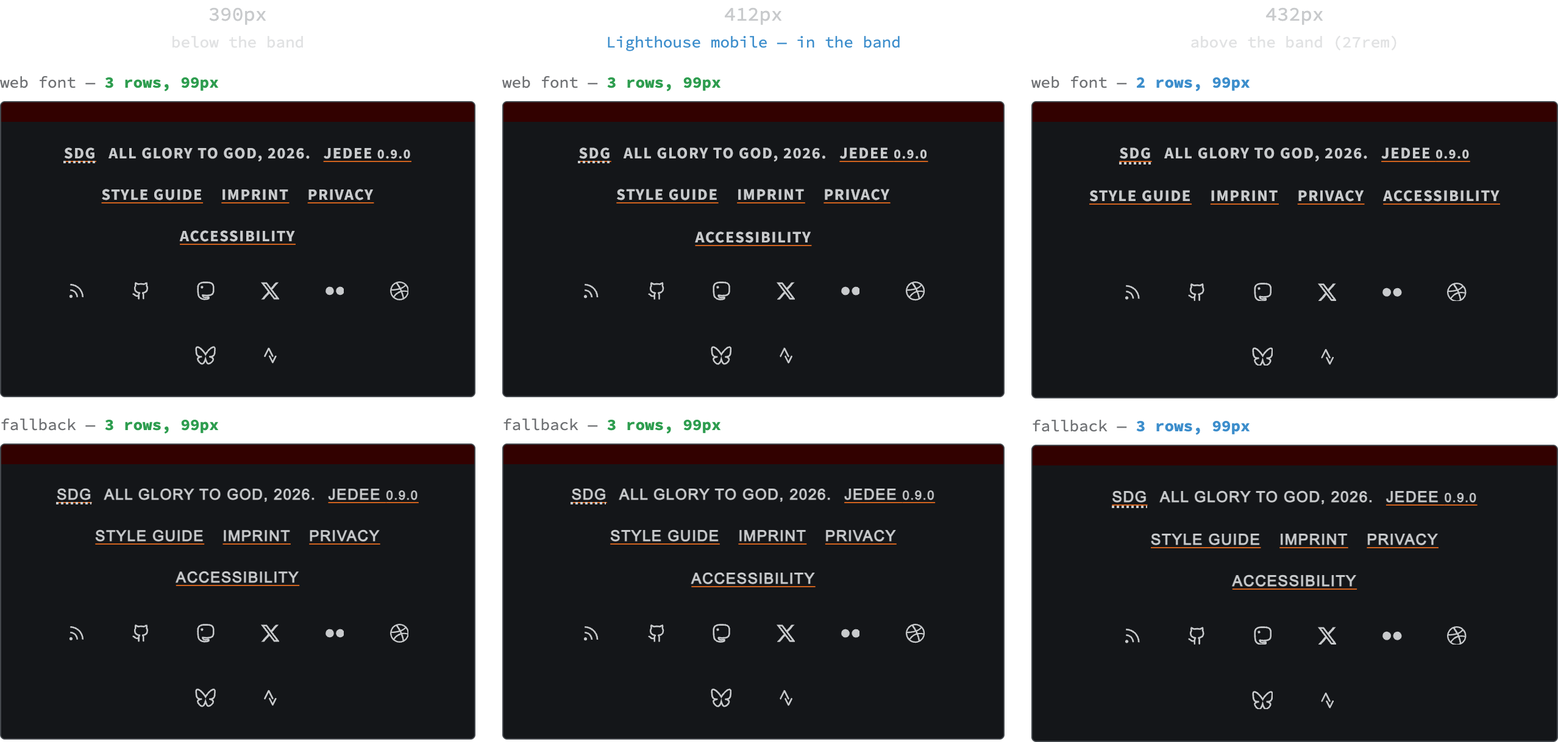
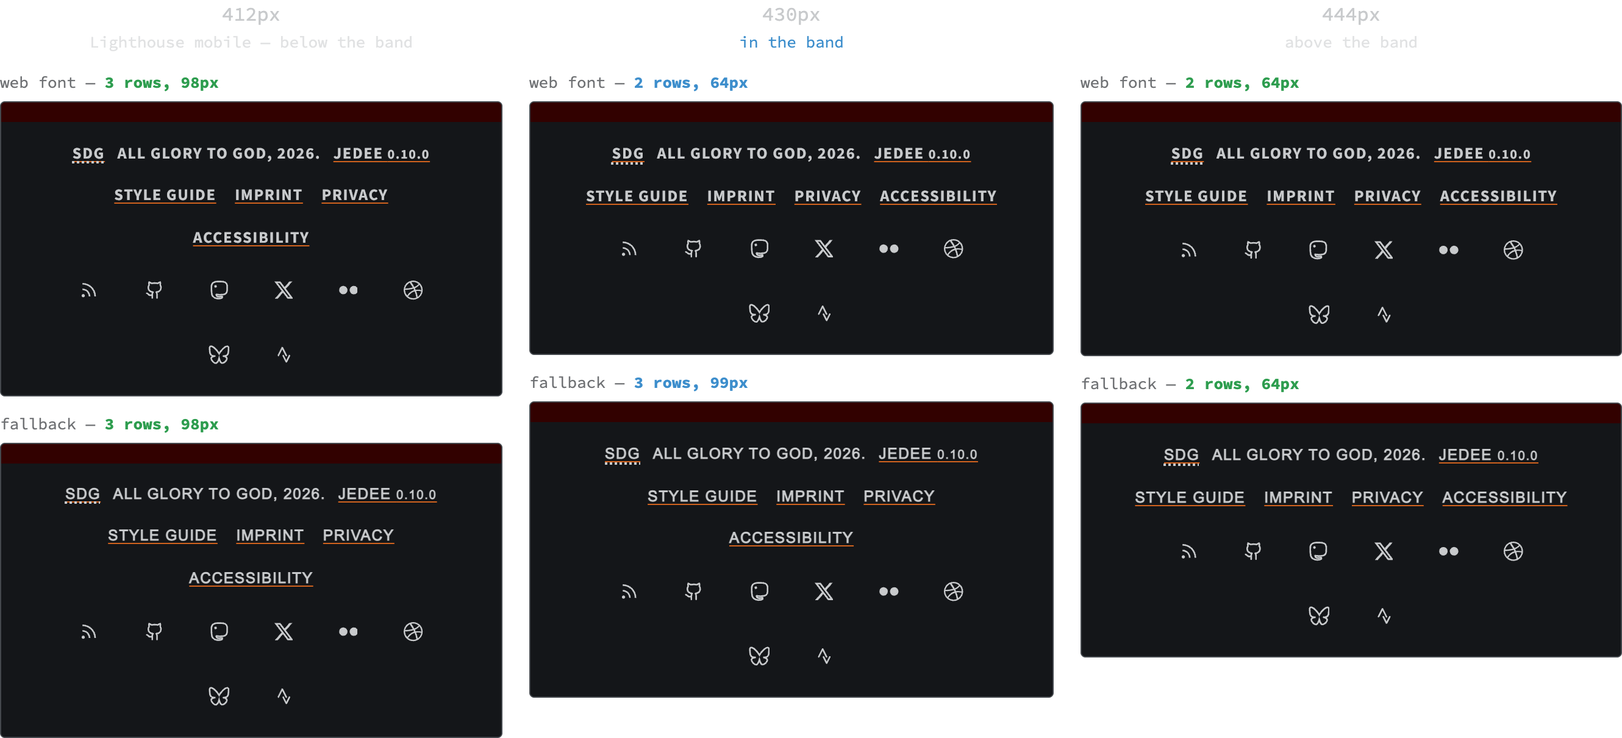
Footer: drop the width media query that reserved the link rows; the font band had moved off 412 px. Layout shift wiki re-measured and re-shot

diff --git a/src/wiki/_sources/site-footer.js b/src/wiki/_sources/site-footer.js
@@ -1,4 +1,4 @@
 // The site's REAL footer, lifted verbatim from a rendered landing page — the .wrapper gutter and the platform nav beside the link cluster are both load-bearing for where the links wrap.
 // Re-lift it with: curl -s http://localhost:8080/ and take the <footer class="site-footer …"> element.
 
-window.SITE_FOOTER = "<footer class=\"site-footer | mt-l-xl p-s-m\">\n  <div class=\"wrapper\">\n    <div class=\"cluster gutter-xs\">\n      <nav aria-label=\"Complementary\" class=\"footer-links | cluster text-step-min-2\">\n        <a href=\"https://github.com/pjedlund/soli-deo-gloria-dedication\" rel=\"license noopener\"><abbr title=\"Soli Deo Gloria\">SDG</abbr></a> All glory to God, 2026.\n        <a href=\"https://github.com/pjedlund/jedee\" rel=\"noopener\">JEDEE <small>0.9.0</small>\n        </a>\n\n        \n          <a href=\"/styleguide/\">Style Guide</a>\n        \n          <a href=\"/imprint/\">Imprint</a>\n        \n          <a href=\"/privacy/\">Privacy</a>\n        \n          <a href=\"/accessibility/\">Accessibility</a>\n        \n      </nav>\n\n      <nav aria-label=\"Platforms\" class=\"cluster\">\n        <!-- gets the first item from the feed loop set in meta -->\n        <a href=\"/feed.xml\" rel=\"alternate\" type=\"application/atom+xml\" data-icon data-tooltip=\"Atom Feed\" data-tooltip-position=\"top\" class=\"button\">\n          <span class=\"visually-hidden\">Atom Feed</span>\n          <svg xmlns=\"http://www.w3.org/2000/svg\" width=\"1em\" height=\"1em\" fill=\"none\" stroke=\"currentColor\" stroke-width=\"2\" viewBox=\"0 0 24 24\" aria-hidden=\"true\"><title>RSS</title><path d=\"M4 11a9 9 0 0 1 9 9M4 4a16 16 0 0 1 16 16\"></path><circle cx=\"5\" cy=\"19\" r=\"1\"></circle></svg>\n        </a>\n\n        \n          \n            \n            \n            <!-- regular platforms -->\n            <a data-icon href=\"https://github.com/pjedlund\" rel=\"me\" data-tooltip=\"GitHub\" data-tooltip-position=\"top\" class=\"no-indicator button\">\n              <span class=\"visually-hidden\">GitHub</span>\n              <svg xmlns=\"http://www.w3.org/2000/svg\" width=\"1em\" height=\"1em\" fill=\"none\" stroke=\"currentColor\" stroke-linecap=\"round\" stroke-linejoin=\"round\" stroke-width=\"2\" viewBox=\"0 0 24 24\" aria-hidden=\"true\"><path d=\"M15 22v-4a4.8 4.8 0 0 0-1-3.5c3 0 6-2 6-5.5.08-1.25-.27-2.48-1-3.5.28-1.15.28-2.35 0-3.5 0 0-1 0-3 1.5-2.64-.5-5.36-.5-8 0C6 2 5 2 5 2c-.3 1.15-.3 2.35 0 3.5A5.4 5.4 0 0 0 4 9c0 3.5 3 5.5 6 5.5-.39.49-.68 1.05-.85 1.65S8.93 17.38 9 18v4\"></path><path d=\"M9 18c-4.51 2-5-2-7-2\"></path></svg>\n            </a>\n          \n        \n          \n            \n            \n            <!-- regular platforms -->\n            <a data-icon href=\"https://mastodon.social/@pjedlund\" rel=\"me\" data-tooltip=\"Mastodon\" data-tooltip-position=\"top\" class=\"no-indicator button\">\n              <span class=\"visually-hidden\">Mastodon</span>\n              <svg xmlns=\"http://www.w3.org/2000/svg\" width=\"1em\" height=\"1em\" fill=\"none\" stroke=\"currentColor\" stroke-width=\"2\" viewBox=\"0 0 24 24\" aria-hidden=\"true\"><path d=\"M21.887 5.996c-.308-2.314-2.298-4.14-4.655-4.492-.399-.059-1.906-.278-5.398-.278h-.026c-3.495 0-4.243.219-4.642.278-2.295.345-4.387 1.982-4.897 4.326-.242 1.153-.268 2.433-.222 3.606.065 1.684.078 3.361.228 5.039a24 24 0 0 0 .543 3.304c.484 2.009 2.439 3.68 4.355 4.359 2.049.71 4.256.829 6.368.342q.347-.085.69-.193c.513-.165 1.114-.351 1.559-.676q.009-.006.013-.016.006-.01.007-.024v-1.624s0-.013-.007-.02q-.002-.01-.013-.016l-.02-.01h-.019a17.4 17.4 0 0 1-4.132.49c-2.397 0-3.041-1.153-3.224-1.63a5.3 5.3 0 0 1-.281-1.287q0-.01.003-.019.002-.012.013-.017l.02-.01h.023c1.33.325 2.697.491 4.067.491.33 0 .657 0 .987-.01 1.376-.04 2.828-.11 4.184-.378.033-.007.069-.013.098-.02 2.138-.418 4.172-1.724 4.378-5.032.006-.129.026-1.365.026-1.498 0-.461.147-3.258-.023-4.979z\"></path><path fill=\"currentColor\" stroke-width=\"1\" d=\"M6.061 7.288c0-.676.533-1.219 1.193-1.219.661 0 1.193.547 1.193 1.219 0 .673-.532 1.22-1.193 1.22-.66 0-1.193-.547-1.193-1.22Z\"></path></svg>\n            </a>\n          \n        \n          \n            \n            \n            <!-- regular platforms -->\n            <a data-icon href=\"https://x.com/pjedlund\" rel=\"me\" data-tooltip=\"X\" data-tooltip-position=\"top\" class=\"no-indicator button\">\n              <span class=\"visually-hidden\">X</span>\n              <svg xmlns=\"http://www.w3.org/2000/svg\" width=\"1em\" height=\"1em\" fill=\"currentColor\" viewBox=\"0 0 24 24\" aria-hidden=\"true\"><path d=\"M18.901 1.153h3.68l-8.04 9.19L24 22.846h-7.406l-5.8-7.584-6.638 7.584H.474l8.6-9.83L0 1.154h7.594l5.243 6.932ZM17.61 20.644h2.039L6.486 3.24H4.298Z\"></path></svg>\n            </a>\n          \n        \n          \n            \n            \n            <!-- regular platforms -->\n            <a data-icon href=\"https://www.flickr.com/people/pjedlund\" rel=\"me\" data-tooltip=\"Flickr\" data-tooltip-position=\"top\" class=\"no-indicator button\">\n              <span class=\"visually-hidden\">Flickr</span>\n              <svg xmlns=\"http://www.w3.org/2000/svg\" width=\"1em\" height=\"1em\" fill=\"currentColor\" viewBox=\"0 0 24 24\" aria-hidden=\"true\"><path d=\"M5.334 6.666a5.335 5.335 0 0 0 0 10.668A5.333 5.333 0 0 0 10.666 12a5.333 5.333 0 0 0-5.332-5.334m13.332 0A5.333 5.333 0 0 0 13.334 12 5.333 5.333 0 1 0 24 12a5.335 5.335 0 0 0-5.334-5.334\"></path></svg>\n            </a>\n          \n        \n          \n            \n            \n            <!-- regular platforms -->\n            <a data-icon href=\"https://dribbble.com/pjedlund\" rel=\"me\" data-tooltip=\"Dribbble\" data-tooltip-position=\"top\" class=\"no-indicator button\">\n              <span class=\"visually-hidden\">Dribbble</span>\n              <svg xmlns=\"http://www.w3.org/2000/svg\" width=\"1em\" height=\"1em\" fill=\"currentColor\" viewBox=\"0 0 24 24\" aria-hidden=\"true\"><path d=\"M12 24C5.385 24 0 18.615 0 12S5.385 0 12 0s12 5.385 12 12-5.385 12-12 12m10.12-10.358c-.35-.11-3.17-.953-6.384-.438 1.34 3.684 1.887 6.684 1.992 7.308a10.28 10.28 0 0 0 4.395-6.87zm-6.115 7.808c-.153-.9-.75-4.032-2.19-7.77l-.066.02c-5.79 2.015-7.86 6.025-8.04 6.4a10.16 10.16 0 0 0 6.29 2.166c1.42 0 2.77-.29 4-.814zm-11.62-2.58c.232-.4 3.045-5.055 8.332-6.765q.202-.067.405-.12-.392-.879-.832-1.74C7.17 11.775 2.206 11.71 1.756 11.7l-.004.312c0 2.633.998 5.037 2.634 6.855zm-2.42-8.955c.46.008 4.683.026 9.477-1.248a66 66 0 0 0-3.8-5.928 10.28 10.28 0 0 0-5.676 7.17zM9.6 2.052c.282.38 2.145 2.914 3.822 6 3.645-1.365 5.19-3.44 5.373-3.702A10.2 10.2 0 0 0 12 1.764c-.825 0-1.63.1-2.4.285zm10.335 3.483c-.218.29-1.935 2.493-5.724 4.04.24.49.47.985.68 1.486.08.18.15.36.22.53 3.41-.43 6.8.26 7.14.33-.02-2.42-.88-4.64-2.31-6.38z\"></path></svg>\n            </a>\n          \n        \n          \n            \n            \n            <!-- regular platforms -->\n            <a data-icon href=\"https://bsky.app/profile/johanedlund.se\" rel=\"me\" data-tooltip=\"Bluesky\" data-tooltip-position=\"top\" class=\"no-indicator button\">\n              <span class=\"visually-hidden\">Bluesky</span>\n              <svg xmlns=\"http://www.w3.org/2000/svg\" width=\"1em\" height=\".9em\" fill=\"var(--color-bg)\" stroke=\"currentColor\" stroke-width=\"2\" viewBox=\"0 0 24 24\" aria-hidden=\"true\"><path d=\"M12 10.8c-1.087-2.114-4.046-6.053-6.798-7.995C2.566.944 1.561 1.266.902 1.565.139 1.908 0 3.08 0 3.768c0 .69.378 5.65.624 6.479.815 2.736 3.713 3.66 6.383 3.364q.204-.03.415-.056-.207.033-.415.056c-3.912.58-7.387 2.005-2.83 7.078 5.013 5.19 6.87-1.113 7.823-4.308.953 3.195 2.05 9.271 7.733 4.308 4.267-4.308 1.172-6.498-2.74-7.078a9 9 0 0 1-.415-.056q.21.026.415.056c2.67.297 5.568-.628 6.383-3.364.246-.828.624-5.79.624-6.478 0-.69-.139-1.861-.902-2.206-.659-.298-1.664-.62-4.3 1.24C16.046 4.748 13.087 8.687 12 10.8Z\"></path></svg>\n            </a>\n          \n        \n          \n            \n            \n            <!-- regular platforms -->\n            <a data-icon href=\"https://www.strava.com/athletes/62084904\" rel=\"me\" data-tooltip=\"Strava\" data-tooltip-position=\"top\" class=\"no-indicator button\">\n              <span class=\"visually-hidden\">Strava</span>\n              <svg xmlns=\"http://www.w3.org/2000/svg\" width=\"24\" height=\"24\" fill=\"none\" stroke=\"currentColor\" stroke-linecap=\"round\" stroke-linejoin=\"round\" stroke-width=\"2\" viewBox=\"0 0 24 24\" aria-hidden=\"true\" class=\"icon icon-tabler icons-tabler-outline icon-tabler-brand-strava\"><path stroke=\"none\" d=\"M0 0h24v24H0z\"></path><path d=\"M15 13 10 3 5 13m6 0 4 8 4-8\"></path></svg>\n            </a>\n          \n        \n      </nav>\n    </div>\n\n    \n  </div>\n</footer>";
+window.SITE_FOOTER = "<footer class=\"site-footer | mt-l-xl p-s-m\"><div class=\"wrapper\"><div class=\"cluster gutter-xs\"><nav aria-label=\"Complementary\" class=\"footer-links | cluster text-step-min-2\"><a href=\"https://github.com/pjedlund/soli-deo-gloria-dedication\" rel=\"license noopener\"><abbr title=\"Soli Deo Gloria\">SDG</abbr></a> All glory to God, 2026. <a href=\"https://github.com/pjedlund/jedee\" rel=\"noopener\">JEDEE <small>0.10.0</small> </a><a href=\"/styleguide/\">Style Guide</a> <a href=\"/imprint/\">Imprint</a> <a href=\"/privacy/\">Privacy</a> <a href=\"/accessibility/\">Accessibility</a></nav><nav aria-label=\"Platforms\" class=\"cluster\"><a href=\"/feed.xml\" rel=\"alternate\" type=\"application/atom+xml\" data-icon data-tooltip=\"Atom Feed\" data-tooltip-position=\"top\" class=\"button\"><span class=\"visually-hidden\">Atom Feed</span> <svg xmlns=\"http://www.w3.org/2000/svg\" width=\"1em\" height=\"1em\" fill=\"none\" stroke=\"currentColor\" stroke-width=\"2\" viewBox=\"0 0 24 24\" aria-hidden=\"true\"><title>RSS</title><path d=\"M4 11a9 9 0 0 1 9 9M4 4a16 16 0 0 1 16 16\"></path><circle cx=\"5\" cy=\"19\" r=\"1\"></circle></svg> </a><a data-icon href=\"https://github.com/pjedlund\" rel=\"me\" data-tooltip=\"GitHub\" data-tooltip-position=\"top\" class=\"no-indicator button\"><span class=\"visually-hidden\">GitHub</span> <svg xmlns=\"http://www.w3.org/2000/svg\" width=\"1em\" height=\"1em\" fill=\"none\" stroke=\"currentColor\" stroke-linecap=\"round\" stroke-linejoin=\"round\" stroke-width=\"2\" viewBox=\"0 0 24 24\" aria-hidden=\"true\"><path d=\"M15 22v-4a4.8 4.8 0 0 0-1-3.5c3 0 6-2 6-5.5.08-1.25-.27-2.48-1-3.5.28-1.15.28-2.35 0-3.5 0 0-1 0-3 1.5-2.64-.5-5.36-.5-8 0C6 2 5 2 5 2c-.3 1.15-.3 2.35 0 3.5A5.4 5.4 0 0 0 4 9c0 3.5 3 5.5 6 5.5-.39.49-.68 1.05-.85 1.65S8.93 17.38 9 18v4\"></path><path d=\"M9 18c-4.51 2-5-2-7-2\"></path></svg> </a><a data-icon href=\"https://mastodon.social/@pjedlund\" rel=\"me\" data-tooltip=\"Mastodon\" data-tooltip-position=\"top\" class=\"no-indicator button\"><span class=\"visually-hidden\">Mastodon</span> <svg xmlns=\"http://www.w3.org/2000/svg\" width=\"1em\" height=\"1em\" fill=\"none\" stroke=\"currentColor\" stroke-width=\"2\" viewBox=\"0 0 24 24\" aria-hidden=\"true\"><path d=\"M21.887 5.996c-.308-2.314-2.298-4.14-4.655-4.492-.399-.059-1.906-.278-5.398-.278h-.026c-3.495 0-4.243.219-4.642.278-2.295.345-4.387 1.982-4.897 4.326-.242 1.153-.268 2.433-.222 3.606.065 1.684.078 3.361.228 5.039a24 24 0 0 0 .543 3.304c.484 2.009 2.439 3.68 4.355 4.359 2.049.71 4.256.829 6.368.342q.347-.085.69-.193c.513-.165 1.114-.351 1.559-.676q.009-.006.013-.016.006-.01.007-.024v-1.624s0-.013-.007-.02q-.002-.01-.013-.016l-.02-.01h-.019a17.4 17.4 0 0 1-4.132.49c-2.397 0-3.041-1.153-3.224-1.63a5.3 5.3 0 0 1-.281-1.287q0-.01.003-.019.002-.012.013-.017l.02-.01h.023c1.33.325 2.697.491 4.067.491.33 0 .657 0 .987-.01 1.376-.04 2.828-.11 4.184-.378.033-.007.069-.013.098-.02 2.138-.418 4.172-1.724 4.378-5.032.006-.129.026-1.365.026-1.498 0-.461.147-3.258-.023-4.979z\"></path><path fill=\"currentColor\" stroke-width=\"1\" d=\"M6.061 7.288c0-.676.533-1.219 1.193-1.219.661 0 1.193.547 1.193 1.219 0 .673-.532 1.22-1.193 1.22-.66 0-1.193-.547-1.193-1.22Z\"></path></svg> </a><a data-icon href=\"https://x.com/pjedlund\" rel=\"me\" data-tooltip=\"X\" data-tooltip-position=\"top\" class=\"no-indicator button\"><span class=\"visually-hidden\">X</span> <svg xmlns=\"http://www.w3.org/2000/svg\" width=\"1em\" height=\"1em\" fill=\"currentColor\" viewBox=\"0 0 24 24\" aria-hidden=\"true\"><path d=\"M18.901 1.153h3.68l-8.04 9.19L24 22.846h-7.406l-5.8-7.584-6.638 7.584H.474l8.6-9.83L0 1.154h7.594l5.243 6.932ZM17.61 20.644h2.039L6.486 3.24H4.298Z\"></path></svg> </a><a data-icon href=\"https://www.flickr.com/people/pjedlund\" rel=\"me\" data-tooltip=\"Flickr\" data-tooltip-position=\"top\" class=\"no-indicator button\"><span class=\"visually-hidden\">Flickr</span> <svg xmlns=\"http://www.w3.org/2000/svg\" width=\"1em\" height=\"1em\" fill=\"currentColor\" viewBox=\"0 0 24 24\" aria-hidden=\"true\"><path d=\"M5.334 6.666a5.335 5.335 0 0 0 0 10.668A5.333 5.333 0 0 0 10.666 12a5.333 5.333 0 0 0-5.332-5.334m13.332 0A5.333 5.333 0 0 0 13.334 12 5.333 5.333 0 1 0 24 12a5.335 5.335 0 0 0-5.334-5.334\"></path></svg> </a><a data-icon href=\"https://dribbble.com/pjedlund\" rel=\"me\" data-tooltip=\"Dribbble\" data-tooltip-position=\"top\" class=\"no-indicator button\"><span class=\"visually-hidden\">Dribbble</span> <svg xmlns=\"http://www.w3.org/2000/svg\" width=\"1em\" height=\"1em\" fill=\"currentColor\" viewBox=\"0 0 24 24\" aria-hidden=\"true\"><path d=\"M12 24C5.385 24 0 18.615 0 12S5.385 0 12 0s12 5.385 12 12-5.385 12-12 12m10.12-10.358c-.35-.11-3.17-.953-6.384-.438 1.34 3.684 1.887 6.684 1.992 7.308a10.28 10.28 0 0 0 4.395-6.87zm-6.115 7.808c-.153-.9-.75-4.032-2.19-7.77l-.066.02c-5.79 2.015-7.86 6.025-8.04 6.4a10.16 10.16 0 0 0 6.29 2.166c1.42 0 2.77-.29 4-.814zm-11.62-2.58c.232-.4 3.045-5.055 8.332-6.765q.202-.067.405-.12-.392-.879-.832-1.74C7.17 11.775 2.206 11.71 1.756 11.7l-.004.312c0 2.633.998 5.037 2.634 6.855zm-2.42-8.955c.46.008 4.683.026 9.477-1.248a66 66 0 0 0-3.8-5.928 10.28 10.28 0 0 0-5.676 7.17zM9.6 2.052c.282.38 2.145 2.914 3.822 6 3.645-1.365 5.19-3.44 5.373-3.702A10.2 10.2 0 0 0 12 1.764c-.825 0-1.63.1-2.4.285zm10.335 3.483c-.218.29-1.935 2.493-5.724 4.04.24.49.47.985.68 1.486.08.18.15.36.22.53 3.41-.43 6.8.26 7.14.33-.02-2.42-.88-4.64-2.31-6.38z\"></path></svg> </a><a data-icon href=\"https://bsky.app/profile/johanedlund.se\" rel=\"me\" data-tooltip=\"Bluesky\" data-tooltip-position=\"top\" class=\"no-indicator button\"><span class=\"visually-hidden\">Bluesky</span> <svg xmlns=\"http://www.w3.org/2000/svg\" width=\"1em\" height=\".9em\" fill=\"var(--color-bg)\" stroke=\"currentColor\" stroke-width=\"2\" viewBox=\"0 0 24 24\" aria-hidden=\"true\"><path d=\"M12 10.8c-1.087-2.114-4.046-6.053-6.798-7.995C2.566.944 1.561 1.266.902 1.565.139 1.908 0 3.08 0 3.768c0 .69.378 5.65.624 6.479.815 2.736 3.713 3.66 6.383 3.364q.204-.03.415-.056-.207.033-.415.056c-3.912.58-7.387 2.005-2.83 7.078 5.013 5.19 6.87-1.113 7.823-4.308.953 3.195 2.05 9.271 7.733 4.308 4.267-4.308 1.172-6.498-2.74-7.078a9 9 0 0 1-.415-.056q.21.026.415.056c2.67.297 5.568-.628 6.383-3.364.246-.828.624-5.79.624-6.478 0-.69-.139-1.861-.902-2.206-.659-.298-1.664-.62-4.3 1.24C16.046 4.748 13.087 8.687 12 10.8Z\"></path></svg> </a><a data-icon href=\"https://www.strava.com/athletes/62084904\" rel=\"me\" data-tooltip=\"Strava\" data-tooltip-position=\"top\" class=\"no-indicator button\"><span class=\"visually-hidden\">Strava</span> <svg xmlns=\"http://www.w3.org/2000/svg\" width=\"24\" height=\"24\" fill=\"none\" stroke=\"currentColor\" stroke-linecap=\"round\" stroke-linejoin=\"round\" stroke-width=\"2\" viewBox=\"0 0 24 24\" aria-hidden=\"true\" class=\"icon icon-tabler icons-tabler-outline icon-tabler-brand-strava\"><path stroke=\"none\" d=\"M0 0h24v24H0z\"></path><path d=\"M15 13 10 3 5 13m6 0 4 8 4-8\"></path></svg></a></nav></div></div></footer>";

diff --git a/src/wiki/_sources/layout-shift.html b/src/wiki/_sources/layout-shift.html
@@ -4,7 +4,7 @@
 <meta charset="utf-8">
 <title>Layout shift — wiki mockup</title>
 
-<!-- ⚠ The site's compiled bundle, so the cluster inside every frame IS site-footer.css plus the cluster composition — including the `@media (width < 27rem)` reserve. It is a build artifact: run `npm start` or `npm run build` once if it is missing. -->
+<!-- ⚠ The site's compiled bundle, so the cluster inside every frame IS site-footer.css plus the cluster composition as built. It is a build artifact: run `npm start` or `npm run build` once if it is missing. -->
 <link rel="stylesheet" href="../../_includes/css/global.css">
 <script src="site-footer.js"></script>
 
@@ -43,7 +43,7 @@
   .agree .rows { color: var(--color-accent-green); }
   .differ .rows { color: var(--color-accent-blue); }
 
-  /* ⚠ An iframe, not a copy: the reserve is a `@media (width < 27rem)` query and a media query reads the VIEWPORT, so a fixed-width div inside this 1400px page would never match it. Every space and type token is vw-based for the same reason. */
+  /* ⚠ An iframe, not a copy: the wrapper gutter and every space and type token are vw-based, so they read the VIEWPORT; a fixed-width div inside this 1400px page would wrap at the wrong width. */
   iframe { display: block; border: 1px solid var(--color-bg-accent-2); border-radius: 4px; background: var(--color-bg); }
   /* Dark shot: the dark accents are muted surface colors, too dim as text — the vivid pair reads at ~5:1. */
   :root[data-theme='dark'] .col-head.inband b,
@@ -75,8 +75,8 @@
       html[data-font='fallback'] .footer-links, html[data-font='fallback'] .footer-links * { font-family: 'Source Sans Fallback', arial, sans-serif; }
     </style></head><body>${window.SITE_FOOTER}</body></html>`;
 
-  // 390 sits below the band, 412 inside it and is what Lighthouse's mobile preset emulates, 432 is 27rem — where the reserve stops applying.
-  const widths = [[390, 'below the band'], [412, 'Lighthouse mobile — in the band'], [432, 'above the band (27rem)']];
+  // 412 is what Lighthouse's mobile preset emulates, now just below the band; 430 is inside it, 444 above. Measured 2026-10-05.
+  const widths = [[412, 'Lighthouse mobile — below the band'], [430, 'in the band'], [444, 'above the band']];
   const states = [['web', 'web font'], ['fallback', 'fallback']];
 
   const grid = document.getElementById('grid');

diff --git a/src/assets/css/global/blocks/site-footer.css b/src/assets/css/global/blocks/site-footer.css
@@ -1,6 +1,5 @@
 .site-footer {
   --cluster-horizontal-alignment: center;
-  --footer-links-reserve: 6.2rem;
     font-weight: var(--font-bold);
     font-size: var(--size-step-min-2);
     text-transform: uppercase;
@@ -21,15 +20,4 @@
 
 .site-footer .creator a:hover svg {
   color: var(--color-accent-orange);
-}
-
-/* @until final-footer — PROVISIONAL, and the only width media query in global/blocks/ outside EE's own prose.css. Delete and re-measure when the footer is redesigned (feat/mega-footer); 27rem and 6.2rem were found against the CURRENT link list and go stale with it. */
-/* ⚠ The page is short, so the footer is bottom-anchored and its height IS its position — the link row wrapping 2→3 in the fallback font moved it 34px. Reserve the three-row height across the band where the two fonts disagree. See the wiki "Layout shift". */
-/* ⚠ Reserve in rem. `lh` and `ch` are font-dependent, so they shrink and grow with the very thing being compensated for — a reservation in `lh` fails here. */
-@media (width < 27rem) {
-  .site-footer .footer-links {
-    min-block-size: var(--footer-links-reserve);
-    /* ⚠ Pin the rows to the top of the reserved box — centring them makes every row move when the row count changes, which is a shift in itself. */
-    align-content: flex-start;
-  }
 }

diff --git a/src/wiki/Layout shift.md b/src/wiki/Layout shift.md
@@ -192,53 +192,51 @@ So `prose.css`'s `max-inline-size: 54ch` (about 63 characters in the web font, s
 
 ### The shift no descriptor can reach
 
-On the landing page at around 412 px the footer's link cluster wraps to **three rows in the fallback and two in the web font**, moving the footer 34 px and scoring **CLS 0.173**. That width is not arbitrary and the band is narrow — measured below. No `size-adjust` fixes it: tested down to 91.5%, 2.4% narrower than Capsize's own value, the row count never flips. A row of short uppercase link labels has a glyph mix nothing like the average the descriptor was fitted to, and the wrap sits right on a boundary at that width.
+Measured 2026-09-07: on the landing page at around 412 px the footer's link cluster wrapped to **three rows in the fallback and two in the web font**, moving the footer 34 px and scoring **CLS 0.173**. That width was not arbitrary and the band is narrow — measured below. No `size-adjust` fixes it: tested down to 91.5%, 2.4% narrower than Capsize's own value, the row count never flips. A row of short uppercase link labels has a glyph mix nothing like the average the descriptor was fitted to, and the wrap sits right on a boundary at that width.
 
-The page is short, so the footer is bottom-anchored — its top is `viewportHeight − footerHeight`, which makes the nav's height *its position*. The fix is to reserve the taller state across the band where the fonts disagree:
+The page is short, so the footer is bottom-anchored: its top is `viewportHeight − footerHeight`, which makes the link cluster's height *its position*.
+
+**A reserve was tried, and removed.** From 2026-09-07 to 2026-10-05 the footer carried the only width media query in `global/blocks/`, holding the three-row height below 27rem:
 
 ```css
 @media (width < 27rem) {
   .site-footer .footer-links {
-    min-block-size: var(--footer-links-reserve); /* 6.2rem */
+    min-block-size: 6.2rem;
     align-content: flex-start;
   }
 }
 ```
 
-`align-content` earns its line: centering the rows inside a taller box moves *every* row by half the slack when the row count changes, which is a shift of its own. Pinned to the top, only the links that actually change row move.
+It halved the shift at 412 px (0.1726 → 0.079): the box stood still, but the links still redistributed between three rows and two inside it, and that is a shift too. Three lessons from it hold for any reservation. Pin the rows to the top (`align-content: flex-start`), since centring moves every row when the count changes. Reserve in `rem`: `lh` and `ch` grow and shrink with the very font being compensated for, and an `lh` version did nothing. And measure CLS, not positions: stacking the nav into a column gave six rows in both fonts and an identical footer top, yet scored worse at 0.1055, because the score counts area and a taller footer scores higher on the small per-row differences that remain.
 
-**Reserve in `rem`.** An earlier version used `lh` and did nothing, because `lh` is font-dependent — it grows and shrinks with the very thing being compensated for, exactly like the `ch` units above. Any reservation meant to absorb a font difference has to be written in a unit the font cannot move.
+It came out because it was tuned to a band that moved. By 2026-10-05 the band sat about 10 px further right (below), so the query no longer touched the Lighthouse width and left the top 8 px of the band uncovered, while hard-coding two numbers that go stale with any change to the footer's text. The intrinsic fix is a footer without a wrap-sensitive row, which belongs to the footer redesign.
 
-**This halves the shift, it does not remove it** — 0.1726 → 0.079. The box is stable now, but the seven links still redistribute between three rows and two when the font lands, and that redistribution is itself a layout shift. Only an identical row count in both fonts would remove it, and no CSS achieves that across every width: shrinking the link padding makes 412 px agree and 380 px disagree instead.
-
-**Stacking the nav into a column measures worse, at 0.1055.** It was the option that looked cleanest, because it gives six rows in both fonts and the footer's *top* is then identical at every width. But impact fraction is area, and a much taller footer scores higher on the small per-row metric differences that remain. Both of these misjudgements came from the same mistake — comparing element *positions* between the two font states instead of measuring CLS. Position equality is necessary, not sufficient; the score counts every element that moved, not just the container.
-
-### The band is 22 px wide, and Lighthouse sits inside it
+### The band is about 20 px wide, and it moves
 
 Everything above measures the shift where it happens. The complementary question is where it *doesn't*, which turns out to be almost everywhere. Sweeping the landing page and forcing the fallback state directly — dropping the web family from each element's stack, leaving the rest of the declaration alone — gives this:
 
-Table: Line counts in the web font and the fallback, by viewport width
-| viewport | `h1` lines | intro lines | intro height Δ | footer rows, web / fallback |
-| --- | --- | --- | --- | --- |
-| 360 | 2 / 2 | 7 / 7 | 0 | 3 / 3 |
-| 390 | 2 / 2 | 7 / 7 | 0 | 3 / 3 |
-| 408 | — | — | — | 3 / 3 |
-| **410** | — | — | — | **2 / 3** |
-| **412** | 2 / 2 | 6 / 6 | 0.09 px | **2 / 3** |
-| **425** | — | — | — | **2 / 3** |
-| 432 | — | — | — | 2 / 2 |
-| 720 | 1 / 1 | 4 / 4 | 0 | 2 / 2 |
-| 1100 | 1 / 1 | 3 / 3 | 0.01 px | 1 / 1 |
-| 1280 | 1 / 1 | 3 / 3 | 0 | — |
+Table: Footer link rows in the web font and the fallback, by viewport width (2026-10-05)
+| viewport | footer rows, web / fallback |
+| --- | --- |
+| 360 | 3 / 3 |
+| 390 | 3 / 3 |
+| 412 | 3 / 3 |
+| 418 | 3 / 3 |
+| **419** | **2 / 3** |
+| **430** | **2 / 3** |
+| **439** | **2 / 3** |
+| 440 | 2 / 2 |
+| 720 | 2 / 2 |
+| 1100 | 1 / 1 |
 
-**Document height was identical in both font states at every width tested.** The heading and the intro paragraph never change line count anywhere in the range — the two fonts disagree about the footer and nothing else.
+**The fonts disagree about the footer and nothing else.** The 2026-09-07 sweep also counted the `h1` and the intro paragraph at 360, 390, 412, 720, 1100 and 1280 px: neither changed line count anywhere, and document height was identical in both font states at every width.
 
 <figure class="popout" data-wiki-mockup>
-  <img eleventy:formats="webp,png" src="/assets/images/wiki/layout-shift-font-band.png" alt="The site footer rendered six times in a three-by-two grid: at 390, 412 and 432 pixels wide, each in the web font and in the metric-matched fallback. At 390 both states take three rows of links; at 432 both take two. Only at 412 do they disagree — two rows in the web font, three in the fallback — and every one of the six reports the same 96-pixel cluster height." width="2556" height="1218">
-  <figcaption>The band, re-measured rather than redrawn: each panel is the real footer in its own iframe at that viewport width, and the row counts are read back off the rendered geometry. Only the middle column disagrees. Note that all six report the same 96 px height — that is the reserve holding the box still while the links redistribute inside it, which is why the fix halves the shift instead of removing it.</figcaption>
+  <img eleventy:formats="webp,png" src="/assets/images/wiki/layout-shift-font-band.png" alt="The site footer rendered six times in a three-by-two grid: at 412, 430 and 444 pixels wide, each in the web font and in the metric-matched fallback. At 412 both states take three rows of links; at 444 both take two. Only at 430 do they disagree: two rows and 64 pixels in the web font, three rows and 99 in the fallback." width="2660" height="1210">
+  <figcaption>The band, re-measured rather than redrawn: each panel is the real footer in its own iframe at that viewport width, and the row counts and heights are read back off the rendered geometry. Only the middle column disagrees, and with no reserve its height follows the row count: that 35 px is how far the bottom-anchored footer moves.</figcaption>
 </figure>
 
-**The disagreement is a band roughly 409–430 px wide, and Lighthouse's mobile preset emulates 412 px** — inside it, near the lower edge. That is the whole reason the landing page carries a residual CLS on the mobile audit while measuring clean at 360, 390, 720 and up. It is not a mobile problem; it is a 22-pixel problem that the standard audit width happens to fall into. Anyone reproducing this at their own browser width will find nothing wrong.
+**The disagreement is a band from 419 to 439 px, and Lighthouse's mobile preset emulates 412 px**, now just below it. On 2026-09-07 the band was 409–430 and 412 sat inside it, which was the whole reason the mobile audit reported a residual CLS while every other width measured clean. The footer's version number is not what moved it (set to 0.9.0 or 1.0.0, the band stays put); the cause was not traced. It is not a mobile problem but a 20-pixel one whose position drifts with small changes to the footer's type, so a clean audit at 412 says nothing about the widths beside it.
 
 The residual metric error after the re-derived descriptors, measured as pure advance width on one unwrapped string:
 
@@ -330,7 +328,7 @@ The decision was to change nothing: the CSS is right for the platforms that have
 
 `src/wiki/_sources/layout-shift.html` draws the band above. Six `srcdoc` iframes, one per width and font state, each loading the compiled `global.css` and the real footer lifted verbatim into `site-footer.js`; the row counts and heights in the labels are read out of each frame's own geometry after its fonts settle, so the picture states what it measured rather than repeating the table.
 
-**An iframe, not a copy.** The reserve is a `@media (width < 27rem)` query and a media query reads the *viewport*, so a fixed-width `div` inside the 1400 px shooter page would never match it — and every space and type token here is `vw`-based for the same reason. `srcdoc` rather than `src`: a `srcdoc` frame inherits the parent's origin so its geometry can be read back, where a separate `file://` document is an opaque origin and `contentDocument` comes back `null`.
+**An iframe, not a copy.** The wrapper gutter and every space and type token here are `vw`-based, so they read the *viewport*; a fixed-width `div` inside the 1400 px shooter page would wrap at the wrong width. `srcdoc` rather than `src`: a `srcdoc` frame inherits the parent's origin so its geometry can be read back, where a separate `file://` document is an opaque origin and `contentDocument` comes back `null`.
 
 **The first attempt built the link row by hand, and all six columns agreed.** The real cluster sits inside `.wrapper`, whose gutter is `6vw` a side, and shares a flex container with the platform-icon nav — about 26 px of width that is the whole difference between wrapping at two rows and three. A simplified copy measures a different element and quietly reports no problem. Lift the markup.
 

diff --git a/src/wiki/_log.md b/src/wiki/_log.md
@@ -5,6 +5,10 @@ date: 2026-07-31
 
 Append-only. One entry per ingest / query-filed / lint, newest first. Entry format: `## [YYYY-MM-DD] ingest | Title` so `grep "^## \[" _log.md | head -5` lists the latest five.
 
+## [2026-10-05] enrich | Layout shift: the footer band moved, the reserve is gone
+
+[[Layout shift]] re-measured on the built landing page: the footer's font band is now 419–439 px (was 409–430), so Lighthouse's 412 px sits just below it and the `@media (width < 27rem)` reserve covered only part of it. The query is deleted; the page keeps its code and its three lessons (pin the rows, reserve in rem, measure CLS not positions) as history. Table cut to the footer rows from today's sweep, the figure re-shot at 412/430/444 from a re-lifted `site-footer.js`, alt and caption rewritten. ⚠ Not the cause: the footer's version number (0.9.0, 0.10.0 and 1.0.0 give the same band); what moved it was not traced.
+
 ## [2026-10-05] enrich | The place map: route-symbols figure re-shot
 
 The `place-map-route-symbols` figure re-shot with the thick symbols and the line stopping at the finish, and its alt rewritten. The mockup's `data-zoom-to` dropped from 16 to 15: the symbols are sized at the fit zoom, which fell when the fit padding grew, so at 16 the finish circles overflowed the frame. The modes figure was re-shot in the same run.
